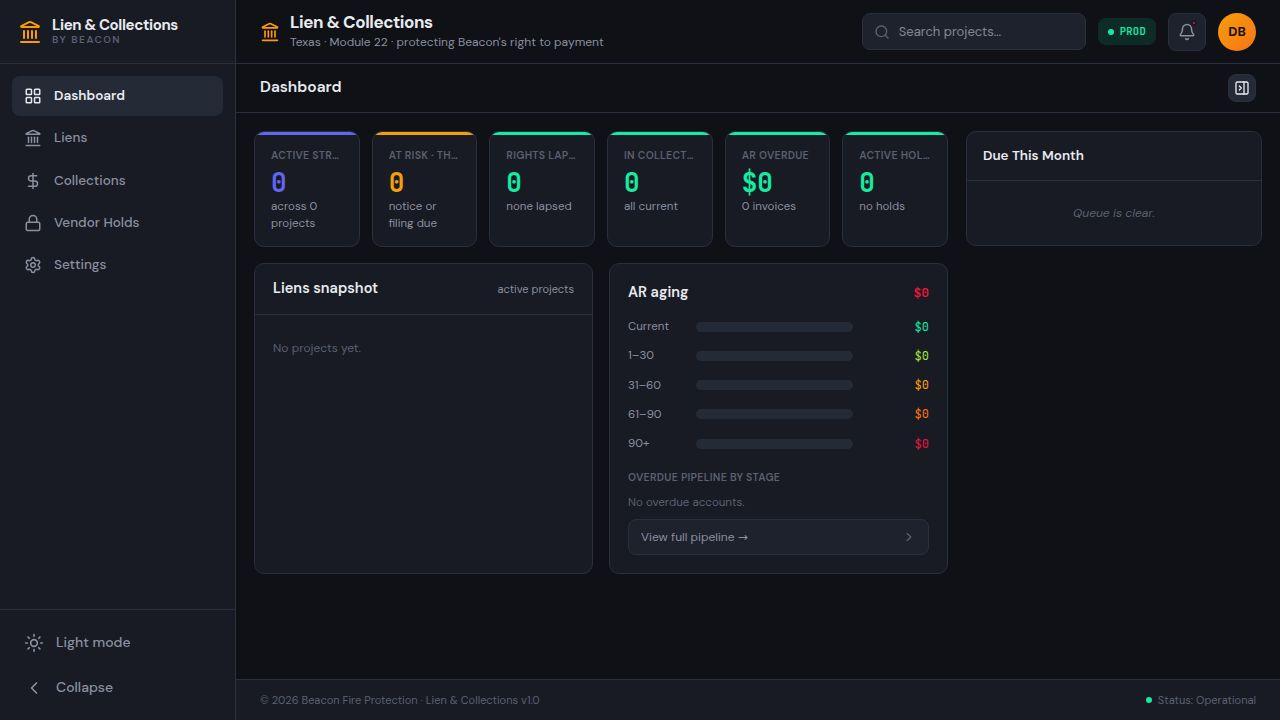
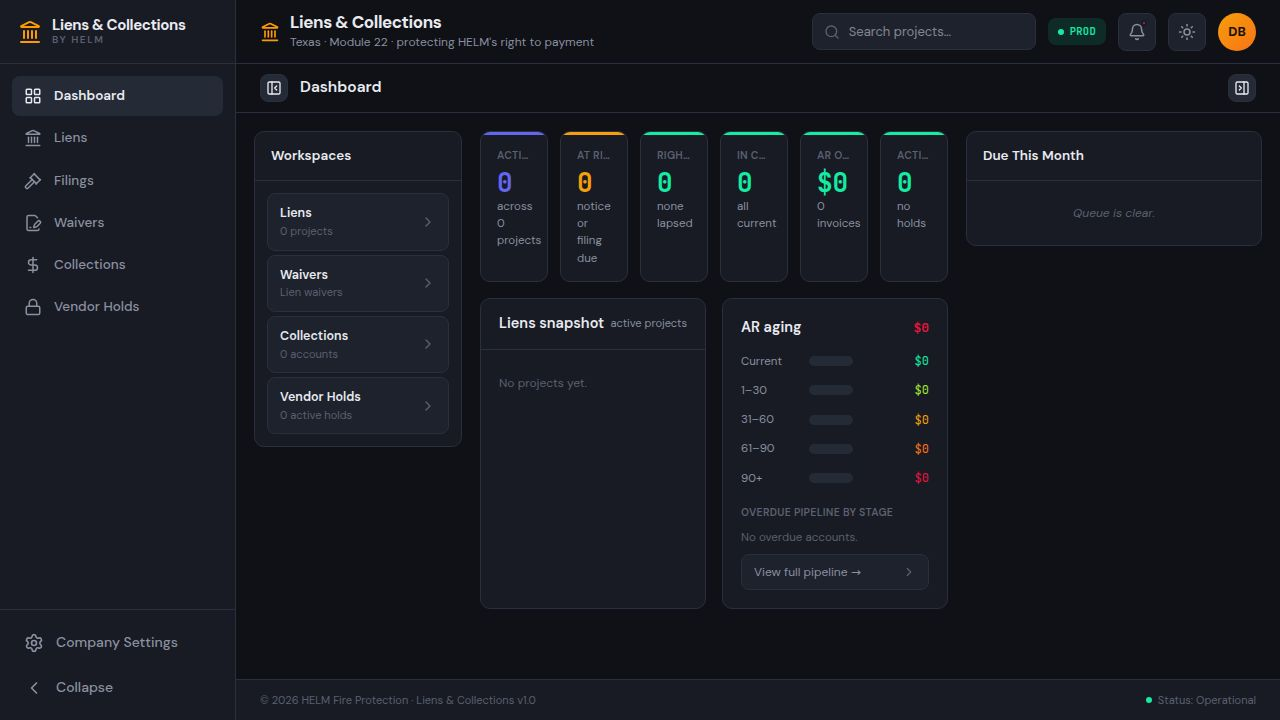
Update application name and company branding to "Liens & Collections by HELM"
Update artifact title, website metadata, navigation elements, and various text strings across the application to reflect the new branding of "Liens & Collections by HELM".

Replit-Commit-Author: Agent
Replit-Commit-Session-Id: b18b0ba4-cb4c-401b-8ca2-e07b8d6a6439
Replit-Commit-Checkpoint-Type: full_checkpoint
Replit-Commit-Event-Id: e0b35c5a-6f7a-4ff1-936e-c6a4da3b7c2b
Replit-Commit-Screenshot-Url: https://storage.googleapis.com/screenshot-production-us-central1/5877fcad-43ba-4e0e-b886-6bf67c5dad8e/b18b0ba4-cb4c-401b-8ca2-e07b8d6a6439/3ibrx8R
Replit-Helium-Checkpoint-Created: true

diff --git a/artifacts/lien-collections/src/components/nav/AppShell.tsx b/artifacts/lien-collections/src/components/nav/AppShell.tsx
@@ -77,7 +77,7 @@ const TITLES: [RegExp, string][] = [
 ];
 
 function getTitle(path: string) {
-  return TITLES.find(([re]) => re.test(path))?.[1] ?? "Lien & Collections";
+  return TITLES.find(([re]) => re.test(path))?.[1] ?? "Liens & Collections";
 }
 
 /* ─── Main AppShell ──────────────────────────────────────────────────────── */
@@ -142,8 +142,8 @@ export function AppShell({ children }: { children: React.ReactNode }) {
               <Landmark className="h-6 w-6 text-amber-500 shrink-0" />
               {!collapsed && (
                 <div className="leading-none">
-                  <div className="text-[15px] font-bold tracking-tight" style={{ color: "var(--text-base)" }}>Lien &amp; Collections</div>
-                  <div className="mt-0.5 text-[10px] font-semibold uppercase tracking-[1.5px]" style={{ color: "var(--text-muted-color)" }}>by Beacon</div>
+                  <div className="text-[15px] font-bold tracking-tight" style={{ color: "var(--text-base)" }}>Liens &amp; Collections</div>
+                  <div className="mt-0.5 text-[10px] font-semibold uppercase tracking-[1.5px]" style={{ color: "var(--text-muted-color)" }}>by HELM</div>
                 </div>
               )}
             </div>
@@ -221,10 +221,10 @@ export function AppShell({ children }: { children: React.ReactNode }) {
               <Landmark className="h-5 w-5 shrink-0 text-amber-500" />
               <div className="min-w-0">
                 <div className="text-[17px] font-bold leading-tight tracking-tight" style={{ color: "var(--text-base)" }}>
-                  Lien &amp; Collections
+                  Liens &amp; Collections
                 </div>
                 <div className="truncate text-[12px]" style={{ color: "var(--text-dim)" }}>
-                  Texas · Module 22 · protecting Beacon's right to payment
+                  Texas · Module 22 · protecting HELM's right to payment
                 </div>
               </div>
             </div>
@@ -340,7 +340,7 @@ export function AppShell({ children }: { children: React.ReactNode }) {
             className="flex flex-wrap items-center justify-between gap-3 border-t px-6 py-3 text-[11px]"
             style={{ background: "var(--surface)", borderColor: "var(--helm-border)", color: "var(--text-muted-color)", marginBottom: isMobile ? 62 : 0 }}
           >
-            <span>© 2026 Beacon Fire Protection · Lien &amp; Collections v1.0</span>
+            <span>© 2026 HELM Fire Protection · Liens &amp; Collections v1.0</span>
             <span className="flex items-center gap-1.5">
               <span className="h-1.5 w-1.5 rounded-full bg-[#14eba3]" />
               Status: Operational
@@ -387,8 +387,8 @@ export function AppShell({ children }: { children: React.ReactNode }) {
             >
               <div className="flex h-16 items-center justify-between border-b px-[18px]" style={{ borderColor: "var(--helm-border)" }}>
                 <span className="text-[15px] font-bold leading-tight" style={{ color: "var(--text-base)" }}>
-                  Lien &amp; Collections
-                  <span className="block text-[9.5px] font-semibold uppercase tracking-[0.16em]" style={{ color: "var(--text-muted-color)" }}>By Beacon</span>
+                  Liens &amp; Collections
+                  <span className="block text-[9.5px] font-semibold uppercase tracking-[0.16em]" style={{ color: "var(--text-muted-color)" }}>By HELM</span>
                 </span>
                 <button onClick={() => setDrawer(false)} style={{ color: "var(--text-dim)" }}>
                   <X className="h-5 w-5" />

diff --git a/artifacts/lien-collections/index.html b/artifacts/lien-collections/index.html
@@ -3,15 +3,15 @@
   <head>
     <meta charset="UTF-8" />
     <meta name="viewport" content="width=device-width, initial-scale=1.0, maximum-scale=1" />
-    <title>Lien &amp; Collections</title>
-    <meta name="description" content="Lien &amp; Collections — built on Replit. Update this description to reflect the app." />
+    <title>Liens &amp; Collections by HELM</title>
+    <meta name="description" content="Liens &amp; Collections by HELM — built on Replit. Update this description to reflect the app." />
     <meta name="robots" content="index, follow" />
-    <meta property="og:title" content="Lien &amp; Collections" />
-    <meta property="og:description" content="Lien &amp; Collections — built on Replit. Update this description to reflect the app." />
+    <meta property="og:title" content="Liens &amp; Collections by HELM" />
+    <meta property="og:description" content="Liens &amp; Collections by HELM — built on Replit. Update this description to reflect the app." />
     <meta property="og:type" content="website" />
     <meta name="twitter:card" content="summary_large_image" />
-    <meta name="twitter:title" content="Lien &amp; Collections" />
-    <meta name="twitter:description" content="Lien &amp; Collections — built on Replit. Update this description to reflect the app." />
+    <meta name="twitter:title" content="Liens &amp; Collections by HELM" />
+    <meta name="twitter:description" content="Liens &amp; Collections by HELM — built on Replit. Update this description to reflect the app." />
     <link rel="icon" type="image/svg+xml" href="/favicon.svg" />
     <link rel="preconnect" href="https://fonts.googleapis.com">
     <link rel="preconnect" href="https://fonts.gstatic.com" crossorigin>

diff --git a/artifacts/lien-collections/src/pages/config.tsx b/artifacts/lien-collections/src/pages/config.tsx
@@ -33,11 +33,11 @@ import { cn } from "@/lib/utils";
 const WORKFLOW_TYPE_LABELS: Record<string, { label: string; description: string }> = {
   commercial_sub: {
     label: "Commercial Sub",
-    description: "Beacon is sub-contractor on a commercial job — primary Beacon case",
+    description: "HELM is sub-contractor on a commercial job — primary HELM case",
   },
   residential_sub: {
     label: "Residential Sub",
-    description: "Beacon is sub-contractor; GC has direct agreement with owner-occupant",
+    description: "HELM is sub-contractor; GC has direct agreement with owner-occupant",
   },
   public_bond: {
     label: "Public / Bond",
@@ -1078,7 +1078,7 @@ export default function ConfigPage() {
         <div>
           <p className="text-sm text-muted-foreground mt-1">
             Reference tree, stage clock triggers, jurisdiction rule sets, and integrations for{" "}
-            <span className="font-medium text-foreground">Beacon Fire Protection</span>.
+            <span className="font-medium text-foreground">HELM Fire Protection</span>.
           </p>
         </div>
 

diff --git a/artifacts/lien-collections/src/pages/send-queue.tsx b/artifacts/lien-collections/src/pages/send-queue.tsx
@@ -89,12 +89,12 @@ function noticeBody(n: QueueNotice): string {
   const amt = money(Number(n.claimAmount));
 
   if (n.noticeType === "retainage_claim") {
-    return `This notice is to advise you that Beacon Fire Protection has furnished labor and materials for fire-protection work at ${project}. The unpaid retainage balance is ${amt}. If this balance is not paid, the property may be subject to a mechanic's lien.`;
+    return `This notice is to advise you that HELM Fire Protection has furnished labor and materials for fire-protection work at ${project}. The unpaid retainage balance is ${amt}. If this balance is not paid, the property may be subject to a mechanic's lien.`;
   }
   if (n.noticeType === "early_warning") {
-    return `This is a courtesy notice from Beacon Fire Protection. We have furnished labor and materials for fire-protection work at ${project} in ${month}. The unpaid balance is ${amt}. Payment within 10 days will avoid the issuance of a formal statutory notice.`;
+    return `This is a courtesy notice from HELM Fire Protection. We have furnished labor and materials for fire-protection work at ${project} in ${month}. The unpaid balance is ${amt}. Payment within 10 days will avoid the issuance of a formal statutory notice.`;
   }
-  return `This notice is to advise you that Beacon Fire Protection has furnished labor and materials for fire-protection work at ${project}. The unpaid balance for work performed in ${month} is ${amt}. If this balance is not paid, the property may be subject to a mechanic's lien.`;
+  return `This notice is to advise you that HELM Fire Protection has furnished labor and materials for fire-protection work at ${project}. The unpaid balance for work performed in ${month} is ${amt}. If this balance is not paid, the property may be subject to a mechanic's lien.`;
 }
 
 // ── Component ──────────────────────────────────────────────────────────────